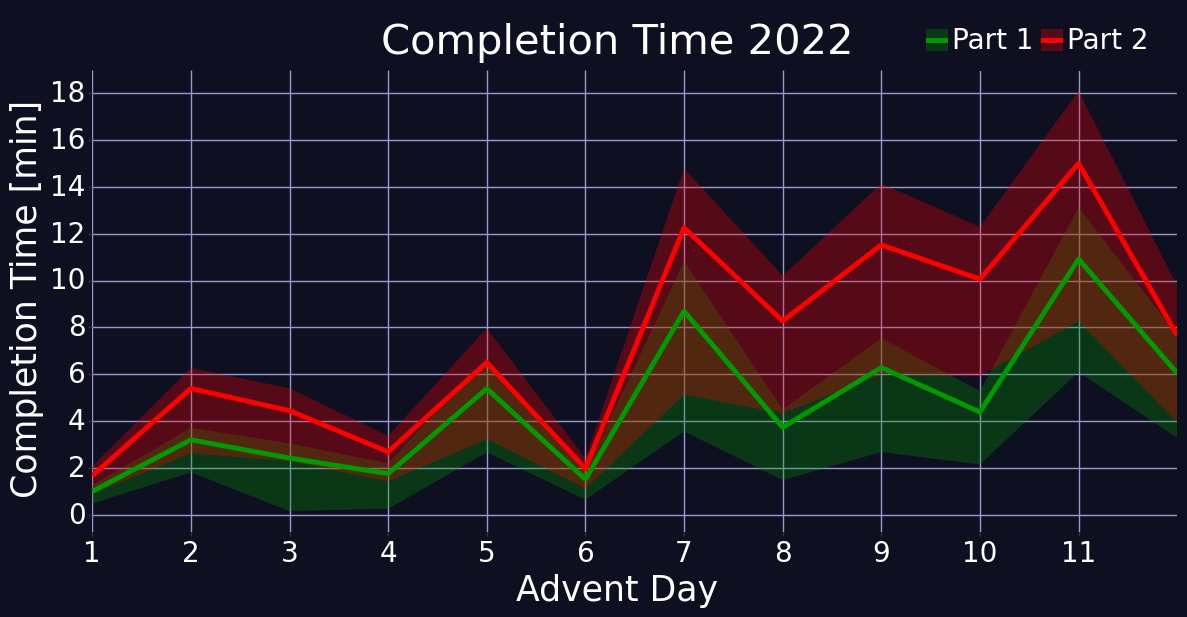
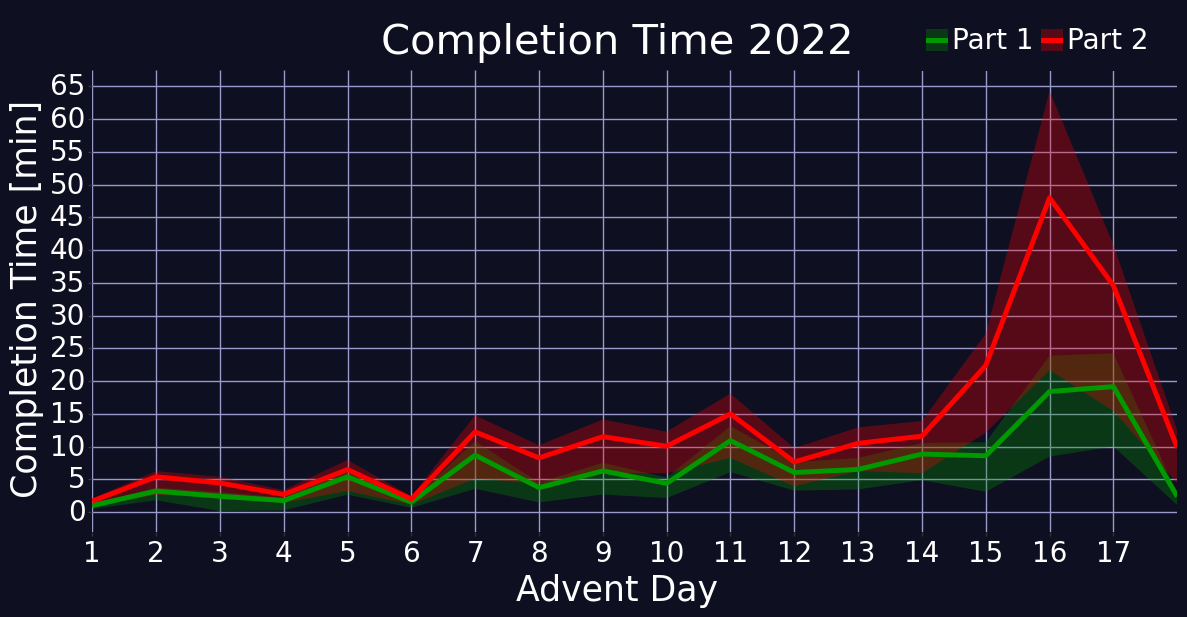
Update aoc2022 stats page.

diff --git a/projects/aoc_2022_stats/aoc_2022_stats.html b/projects/aoc_2022_stats/aoc_2022_stats.html
@@ -30,7 +30,7 @@
       <p>I have done a number of programming puzzles but I find that they incentivize quick and dirty solutions to just get to the next one.  The forced slow pace of a single two part puzzle per day allows you to take time and not feel forced to create the bare minimum.</p>
       <p>Besides the actual puzzles I was intrigued to see that there are <a href="https://www.adventofcode.com/2022/leaderboard">Leaderboard</a> and <a href="https://www.adventofcode.com/2022/stats">Stats</a> pages which provide puzzle completion times and puzzle completion counts for each day since the calendar began in <a href="https://adventofcode.com/2015">2015</a>.  I don&#39;t have much else to say here but I have had some fun with numbers below.</p>
 
-      <p style="margin-top: 3rem; margin-bottom: 3rem">I plan to periodically update the plots when I feel like it and add any thoughts. Last updated 2022-12-12</p>
+      <p style="margin-top: 3rem; margin-bottom: 3rem">I plan to periodically update the plots when I feel like it and add any thoughts. Last updated 2022-12-18</p>
       <p>A consistent colour scheme is kept for years through the plots.  This year, <a href="https://adventofcode.com/2022">2022</a>, is red and the mean of all of the results is white.  Completion of the first part of the puzzle is represented by the solid line and the second part is represented by the dashed line.</p>
 
       <h2 class="proj">Total Completions</h2>
@@ -40,6 +40,12 @@
       <ul>
         <li>The white &#39;mean&#39; line represents the average decline in players multiplied by the players who completed the first puzzle in 2022.</li>
         <li>2022 has had higher retention than average so far though the gap is closing after a difficult <a href="https://adventofcode.com/2022/day/7">day 7</a> puzzle.</li>
+        <li><a href="https://adventofcode.com/2022/day/16">Day 16</a> of 2022 featured a devastatingly difficult challenge which is evident by the dramatic drop in completion for the day. Notably, the completion rate did not recover on the 17<sup>th</sup> as has been seen with some difficult puzzles in previous years.
+          <ul>
+            <li>Though this 'non-recovery' will likely diminish with time as people complete puzzles in future years.</li>
+          </ul>
+        </li>
+        <li><a href="https://adventofcode.com/2022/day/16">Day 16</a> was followed by a similarly difficult <a href="https://adventofcode.com/2022/day/17">day 17</a> which continued the participation decline.  It will be interesting to see if players return to try the remainder of the challenges or lose motivation.</li>
       </ul>
 
       <h2 class="proj">Total Completions to Current Day</h2>
@@ -54,8 +60,9 @@
       <img src="/projects/aoc_2022_stats/assets/NormalizedPlayerRetentionMacro.png" alt="NormalizedPlayerRetentionMacro Plot" style="margin-left: auto; margin-right: auto;">
       <ul>
         <li>This is a modified version of the player count plots where each year has been normalized to the player count of the first day of the year.</li>
-        <li>This year was going really well but began to drop below the average on day 9, mostly due to the difficult day 7 puzzle.</li>
+        <li>This year was going really well but began to drop below the average on day 9, mostly due to the difficult <a href="https://adventofcode.com/2022/day/7">day 7</a> puzzle.</li>
         <li>Note that the first year(2015) represented by the dark green line is abnormally high, likely due to the smaller beginning population and fewer casuals just dropping by for the first puzzle and forgetting about it.</li>
+        <li>The difficultly of both the <a href="https://adventofcode.com/2022/day/16">day 16</a> and <a href="https://adventofcode.com/2022/day/17">day 17</a> challenges are highlighted here as the normalized participation is the lowest ever for the given advent day.  Nearly lower than the minimum ending participation.</li>
       </ul>
 
       <h2 class="proj">Normalized Player Retention to Current Day</h2>
@@ -71,8 +78,9 @@
       <ul>
         <li>This is the ratio of completion of the first puzzle to completion of the second puzzle.  A higher ratio(higher number) will represent a problem with a more difficult second part.</li>
         <li>This shows a significant pattern of difficult second parts on day 7 as well as on days 21-23.</li>
-        <li>I suspect the large spike on the 25th is a result of people not wanting to commit too much time on the holiday though it could be a significantly more difficult second part.</li>
+        <li>I suspect the large spike on the 25<sup>th</sup> is a result of people not wanting to commit too much time on the holiday though it could be a significantly more difficult second part.</li>
         <li>So far in 2022 the second part has been relatively similar to the first part but it seems the common factor / <a href="https://en.wikipedia.org/wiki/Modulo_operation">modulo</a> trick of <a href="https://adventofcode.com/2022/day/11">day 11</a> caught a few people out.</li>
+        <li>Notable completion ratios for both <a href="https://adventofcode.com/2022/day/16">day 16</a> and <a href="https://adventofcode.com/2022/day/17">day 17</a> which can be explained by their difficulty.  Note that the ratio for <a href="https://adventofcode.com/2022/day/17">day 17</a> should decrease as days pass, the <a href="https://adventofcode.com/2022/day/16">day 16</a> ratio has dropped significantly since yesterday.</li>
       </ul>
       <p>These next plots include times that are pulled from the top 100 leaderboards.  They are only representative of the absolute highest echelon of contendors but it is all the data I can get.  The times are still useful indicators of the difficulty of the problems though time consuming problems don&#39;t always mean difficult problems.</p>
 
@@ -96,6 +104,7 @@
       <ul>
         <li>This is an expanded view of the completion times for the year 2022.  The line is the average completion time of the top 100 while the ribbon shows the quickest and slowest of the top 100.</li>
         <li>The fastest completion times are just outrageous in the first days with automated submission and the use of ChatGPT.</li>
+        <li><a href="https://adventofcode.com/2022/day/18">Day 18</a> provides some much needed reprieve after the demanding previous days.  I am curious if the completion numbers will recover with this simpler day or if previous days have irrevocably turned people away.</li>
       </ul>
 
       <h2 class="proj">Completion Time History</h2>
